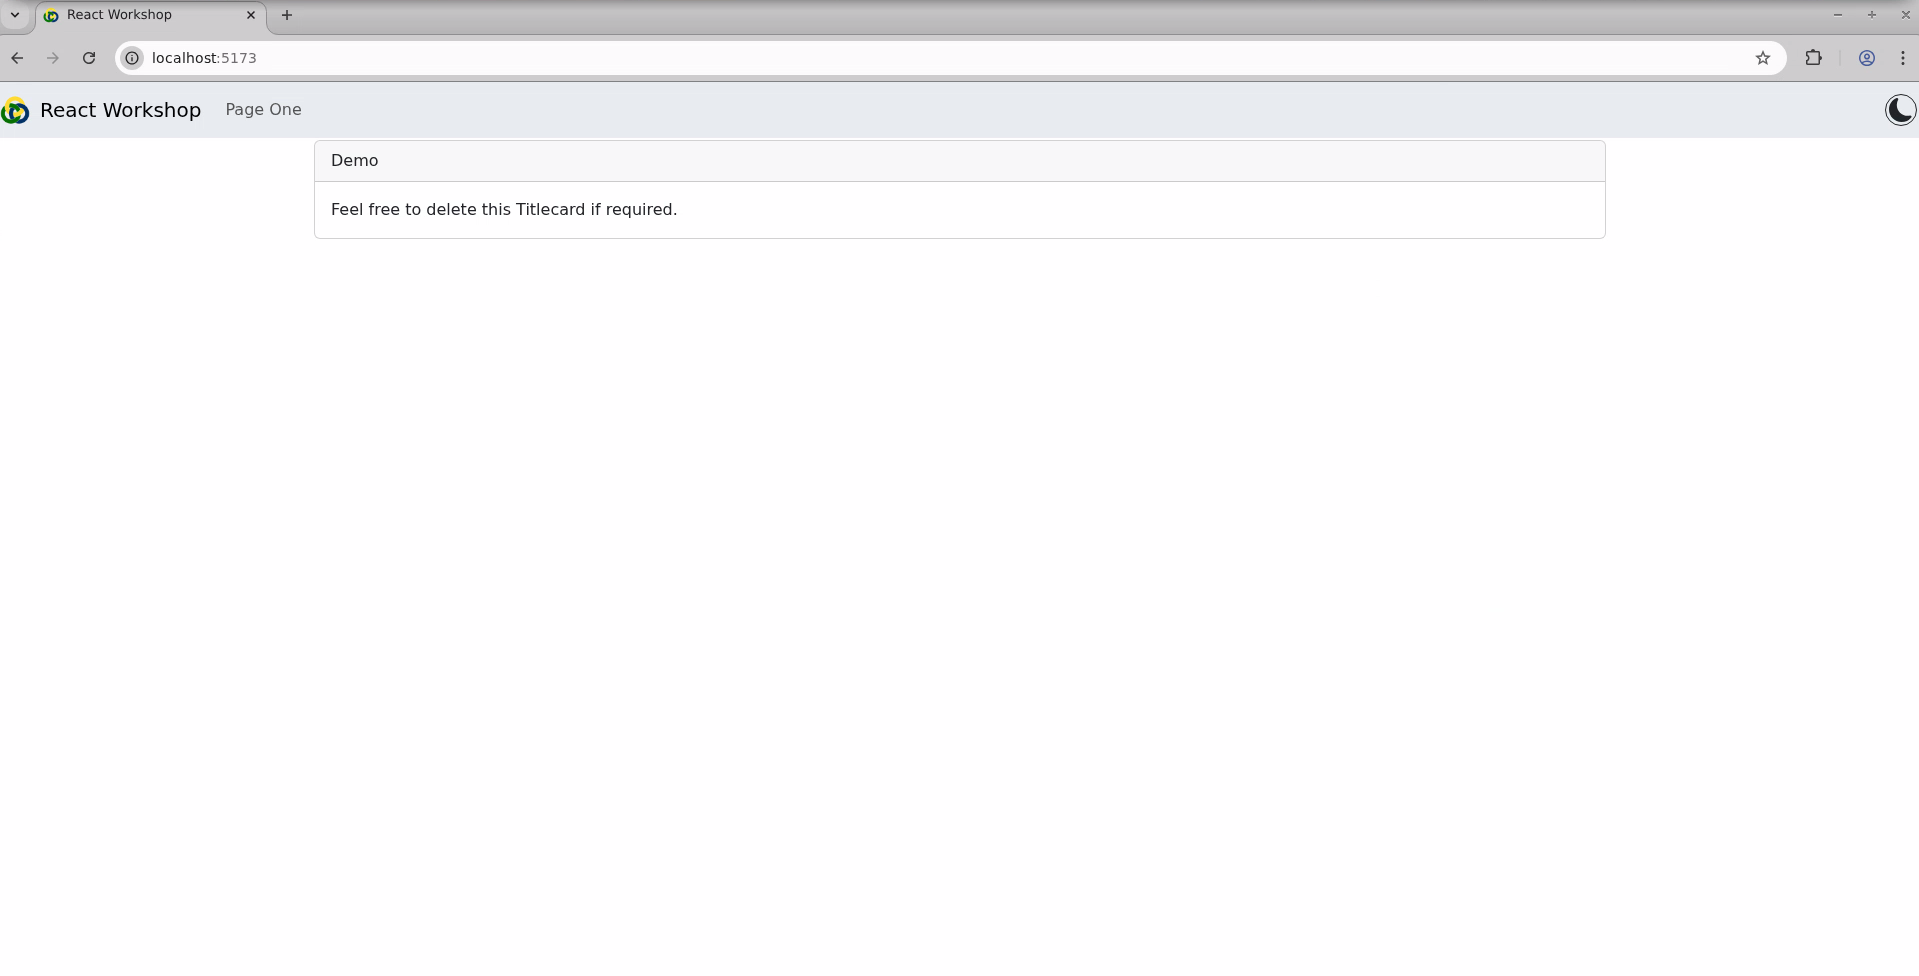
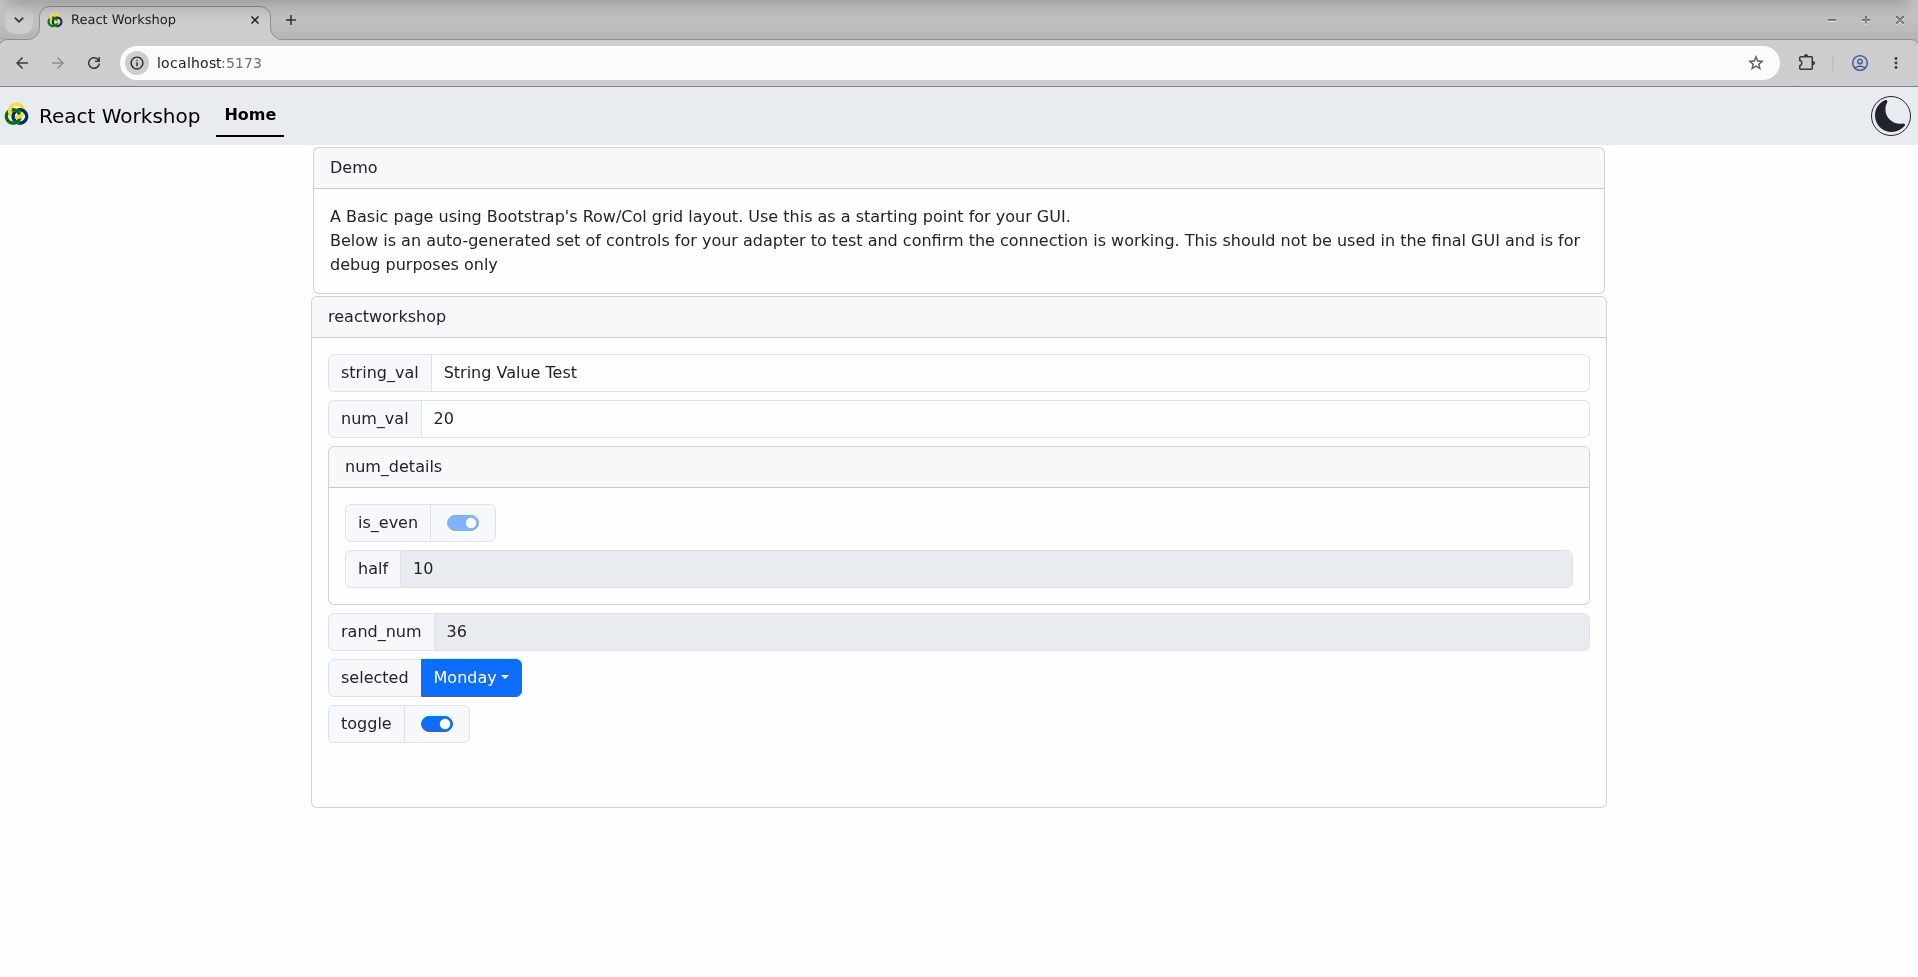
Modfied workshop README to reflect use of new Odin React template project

diff --git a/README.md b/README.md
@@ -13,19 +13,25 @@
 - Designed to streamline, speed up, and unify GUI development for our detector projects
 - Uses [Axios](https://axios-http.com/docs/intro) to handle HTTP requests. Axios is a promise based client that handles request and response serialization.
 
+Odin React uses [Storybook](https://storybook.js.org/) to document, demo, and test. For more details, see the links below:
+- [Interactive Documentation](https://stfc-aeg.github.io/odin-react/)
+- [Live Demo](https://stfc-aeg.github.io/odin-react/iframe.html?id=demo-page--default&viewMode=story)
+
 ## What is React?
 
 - A Javascript based library that allows for the creation of *Components*; individual reusable UI elements that can their own logic and state.
     - these components are Javascript Functions that return markup:
-    ```javascript
-    function MyButton() {
-        // Notice Components always start with capital letters
-        // to differentiate from standard HTML tags
-        return(
-            <button>I'm a button</button>
-        );
-    }
-    ```
+
+```javascript
+function MyButton() {
+    // Notice Components always start with capital letters
+    // to differentiate from standard HTML tags
+    return(
+        <button>I'm a button</button>
+    );
+}
+```
+
 - This markup syntax is called **JSX**, which is what allows for the mixture of html and javascript within a single file and object.
 - Components can be provided with arguments, called *props*, for various purposes. These are passed to the component like *html attributes*, and become an object parameter in the component function that can be [destructured](https://developer.mozilla.org/en-US/docs/Web/JavaScript/Reference/Operators/Destructuring).
 
@@ -56,26 +62,21 @@
 
 ### useAdapterEndpoint
 - Provides all the RESTful API methods to interact with the Odin Control Adapter Parameter Tree
-- Maintains a local copy of the Parameter tree
+- Caches a copy of the Parameter tree
     - And the Metadata, if the adapter supports it.
-- Can be setup to make periodic requests of the Adapter to monitor updating data
+- Can be setup to make repeated requests of the Adapter to monitor updating data
 - Has error handling in case of HTTP errors, such as loss of connection or incorrectly done requests.
 
-### WithEndpoint
-- Wraps an existing Component to automate its connection to an Endpoint, creating a modified component that can then be reused.
-- Provides event handlers that will perform http PUT requests as required.
-- Supports buttons, text input, dropdowns, checkboxes, radio buttons, and more, automatically.
-- Can be provided with functions to run before and/or after the PUT request
-- Can monitor the value within the Endpoint Parameter Tree and display up to date data if changed.
-- Utilizes Parameter Metadata to limit input options, such as an integer input having a Minimum and Maximum.
+### Endpoint Components
+- Pre-existing Input components (such as buttons or text boxes) with added functionality to automatically work with an Adapter Endpoint, performing PUT requests whenever appropriate.
+    - For example, the `EndpointButton` component will do the PUT request whenever clicked.
+    - An `EndpointInput` will PUT whenever the Enter key is hit while typing in the textbox.
 
-Odin React provided some standard WithEndpoint wrapped components by default, 
-
-## OdinApp
+### OdinApp
 - A top level component that provides a navigation bar, routing to multiple pages, and a display for potential errors if something goes wrong.
 - Should contain all the pages of a GUI, to properly render and navigate between them.
 
-## Model-View-Controller Design Pattern
+### Model-View-Controller Design Pattern
 - Odin Control and Odin React are designed to separate *business logic* from the GUI presentation.
 - The GUI should not implement control logic, but should trigger events within the Adapter to do so.
 
@@ -84,21 +85,21 @@ Odin React provided some standard WithEndpoint wrapped components by default,
 ---
 # Workshop
 
-The workshop will involve making sure we have an Odin Control instance running to interact with, and then using [Cookiecutter](https://www.cookiecutter.io/) to instantiate a React Application using one of the available templates.
+The workshop will involve making sure we have an Odin Control instance running to interact with, and then using a **Template Project** to start developing the GUI.
 
-The workshop requires a python virtual environment of either `3.10` or `3.11`. Odin Control is currently incompatible with `3.12` but will soon be updated to allow this.
+The workshop requires a python virtual environment compatiable with Odin Control. This is currently `3.8` or above.
 
-The workshop also requires `node.js`, which can be sourced from `/aeg_sw/apps` via `module load` if running this workshop from a machine connected to our network.
+The workshop also requires [nodejs](https://nodejs.org/en), which can be sourced from `/aeg_sw/apps` via `module load` if running this workshop from a machine connected to the DSSG network.
 
 ## Installing The Adapter
 
-- An Odin Control Adapter is available for use within this workshop which will provide a parameter tree we can interact with using our GUI.
+- An Odin Control Adapter is available for use with this workshop which will provide a parameter tree we can interact with using our GUI.
 
-- To install it, navigate to the `control` directory within this repo and, using your preferred virtual environment (version 3.10 or higher), install the adapter:
+- To install it, navigate to the `control` directory within this repo and, using your preferred python environment, install the adapter:
 
 ```bash
 cd control
-pip install -e .
+pip install .
 ```
 
 Run the adapter:
@@ -115,51 +116,52 @@ With a basic Odin Control instance running, we can begin creating the GUI for th
 > 
 > Once the GUI is completed, it can be compiled into static code and served by Odin Control as a static resource. While developing, the GUI will be served standalone on a different address and port than Odin Control, which means it must be configured to accept CORS (Cross Origin Sharing) requests.
 
-In a new terminal, create a directory to contain the React project, and then move into it. Standard practice is one of two options:
--  either within the `web/static` (*or test/static in older projects*) path of the Odin Control project
-- in its own directory alongside the `control` and/or `data` directory of a larger Odin project
-
+Using `npm` (the `nodejs` package manager), we can use the available Template Project from the web. In a new terminal:
 ```bash
-# during development, the exact location of the React code does not matter
-# As it will not yet be served statically by Odin Control
-mkdir react
-cd react
+# The new terminal should be in the same directory as the Odin Control project
+cd control
 
-# Within a python Virtual Environment (this can be the same one as before), ensure `cookiecutter`is installed. This tool allows us to automatically download and build upon templates:
+# This command fetches the templated Odin React project from npmjs.com, the package management site. It's similar to Python's PyPI.org.
+npm create @dssg/odin-react
 
-pip install cookiecutter
-
-# Using cookie cutter, create a new project from one of the available templates:
-cookiecutter git+ssh://git@github.com/stfc-aeg/odin-react-template
 ```
 
-Cookiecutter will then provide prompts to select which template to use, and setup other values ready for the project. We're going to use the Typescript template, as using Typescript instead of Javascript gives us more control during development. It still compiles into standard Javascript when it runs or is built into the final application:
-
+This should then provide us with a series of prompts on the command line to customise the template. Make sure your responses match those shown here:
 ```bash
-# Options from cookiecutter. Ideally, you should follow these options for the workshop:
-Select a template
-    1 - Javascript Template (javascript)
-    2 - Typescript Template (typescript)
-    Choose from [1/2] (1): 2
-  [1/6] Set the name of the project (Project Name): React Workshop
-  [2/6] Set the name of the package (reactworkshop): 
-  [3/6] Name of the adapter that the default template will connect to (reactworkshopAdapter): workshop
-  [4/6] Name the main folder the application will be in (app): 
-  [5/6] The default endpoint of the Odin Control instance (http://localhost:8888): http://localhost:8888
-  [6/6] Include the optional Plotly package for graphing [y/n] (n): no
+┌  Create Odin React GUI
+│
+◇  GUI App Project Name
+│  React Workshop
+│
+◇  GUI App Root Directory
+│  web/static
+│
+◇  Name of the Adapter to connect to
+│  reactworkshop
+│
+◇  URL of the Odin Control API
+│  http://localhost:8889
+│
+◇  Include Plotly graphing Package?
+│  No
+│
+◇  Install and run Dev Server?
+│  Yes
 ```
 
-Once created, you need to ensure the dependencies are installed and ready, and then you can start developing the app:
+You'll then see the output below, showing that it is copying and installing the template. Do note that the Dependency Installation step may take a few minutes.
 
-```bash
-cd app
-    # nodejs is the javascript runtime environment that allows us to use React. Source it from the DSSG module files on the network.
-module load nodejs
-    # this step will install all the dependencies declared in package.json. It may take a few minutes
-npm install
-
-    # after installation of the dependencies is completed, run the development server:
-npm run dev
+```
+│
+◇  Initialising...
+│
+◇  Scaffolding Completed
+│
+◇  Updating package.json...
+│
+◇  Setting Adapter API config...
+│
+◇  Installing Dependencies with NPM...
 ```
 
 When running, the development server will display the address of the webpage it is serving. It will also monitor the React project's codebase, and will reload the server if anything changes.
@@ -173,14 +175,31 @@ Terminal Output:
   ➜  press h + enter to show help
 ```
 
+>[!IMPORTANT]
+> If you do not see this output, you may have told the template not to automatically install and run, or you may have accidentally shut the server down. In which case, you'll need to run the following commands:
+>
+> ```bash
+> cd web/static
+> 
+> # this step will install all the dependencies declared in "package.json" if they are not already. It may take a few minutes
+> npm install
+> 
+> # after installation of the dependencies is completed, run the development server:
+> npm run dev
+> ```
+
 Open this address in your web browser of choice (Odin React has been developed to explicitly support either **Firefox** or **Chrome**) and you should see something like the following:
 <p align="center">
 <img src="./images/react_workshop_initial.png"/>
 </p>
 
+>[!IMPORTANT] This inital state of the React GUI grabs the full Parameter Tree from your Odin Control server and displays some auto-generated controls based on the response.
+>
+> If for some reason you do not see these controls, and/or see warnings about the connection, check that your Odin Control server is running and that the address used when copying the React Template matches the one Odin Control is listening on.
+
 ## Begin developing the React Project
 
-Now that you have a starting point, we can begin to build upon this to add interactivity with the Adapter!
+Now that you have a starting point, we can begin to build upon this to add specific controls with the Adapter!
 
 ### Modify the AdapterEndpoint
 
